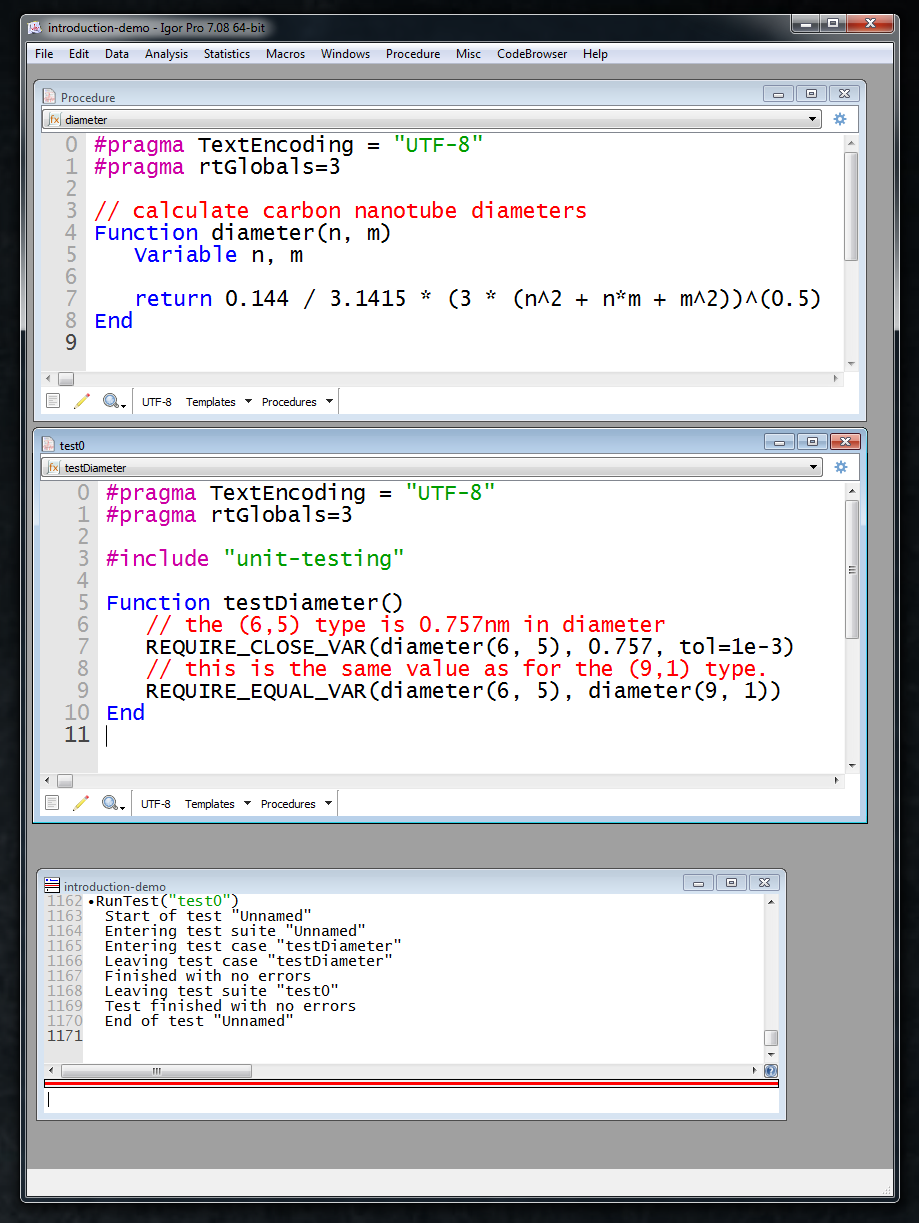
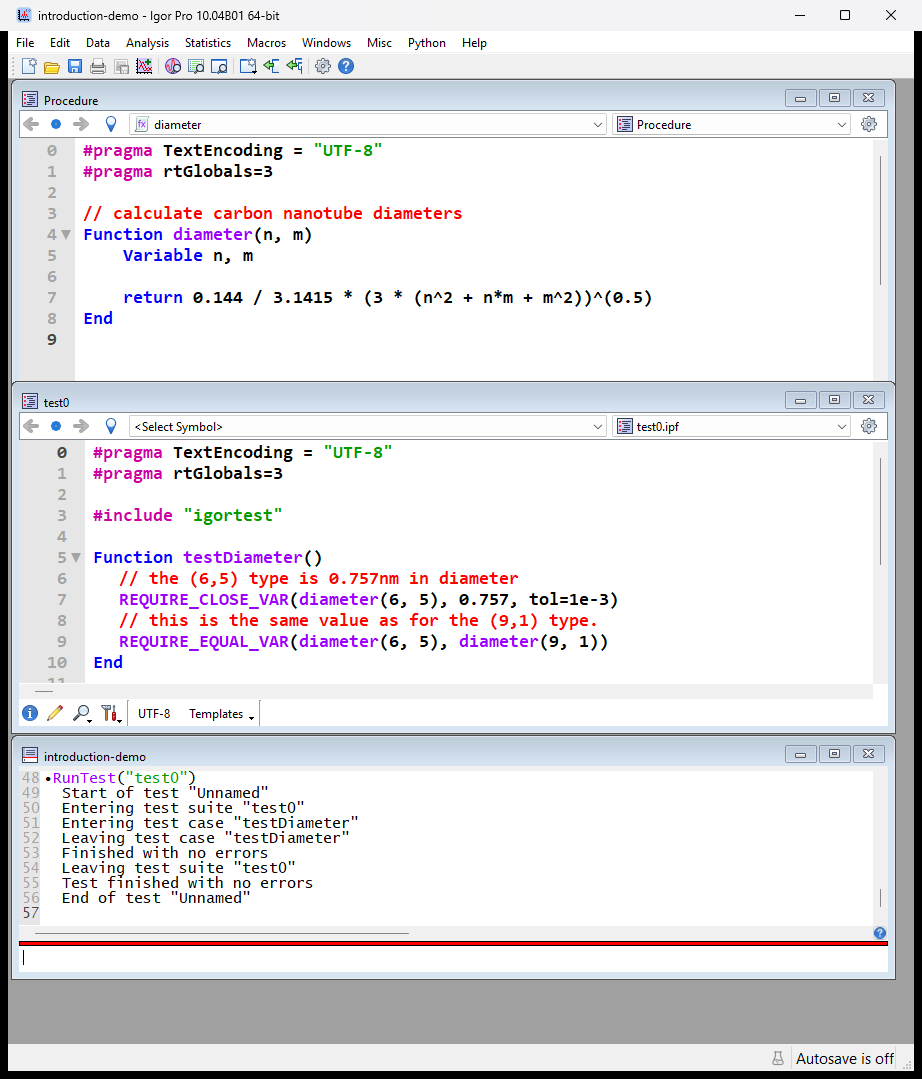
Regenerate the guided tour console output from a real run
Both console listings were written by hand in fb8ef0ca (rework
documentation, 2018-09-04) and never regenerated, so they had drifted
from what RunTest prints:

- the suite line said "Unnamed" although the test suite is the
  procedure window, which the tour has just named test0,
- the second listing repeated the "Entering test case" line,
- the assertion text lacked the trailing period,
- the location used a "failed in line 11, procedure \"test0\"" form the
  code does not produce; the current one names the test case function
  and puts the window and line in parentheses,
- the two compared numbers were shown rounded, while
  GetNiceStringForNumber() prints them with UTF_DECIMAL_DIGITS_FP64
  significant digits,
- the end-of-run recap of the failed assertion was missing.

The screenshot below the first listing still showed an Igor Pro 7.08
session with #include "unit-testing" and the old suite line, so it is
replaced by one of the same run in Igor Pro 10.

diff --git a/docu/sphinx/source/guided-tour.rst b/docu/sphinx/source/guided-tour.rst
@@ -110,7 +110,7 @@ example we have named the procedure window :code:`"test0"`.
 
    •RunTest("test0")
      Start of test "Unnamed"
-     Entering test suite "Unnamed"
+     Entering test suite "test0"
      Entering test case "testDiameter"
      Leaving test case "testDiameter"
      Finished with no errors
@@ -154,19 +154,19 @@ The output of :cpp:func:`RunTest` will now include a warning assertion without
 failing the test case:
 
 .. code-block:: console
-   :emphasize-lines: 6,7,9
+   :emphasize-lines: 5,6,8
 
    •RunTest("test0")
      Start of test "Unnamed"
-     Entering test suite "Unnamed"
+     Entering test suite "test0"
      Entering test case "testDiameter"
-     Entering test case "testDiameter"
-     0.757368 ~ 0.757345 with strong check and tol 1e-07: is false
-     Assertion "WARN_CLOSE_VAR(diameter(6, 5), 0.7573453, tol=1e-7)" failed in line 11, procedure "test0"
+     0.7573676512581874 ~ 0.7573453 with strong check and tol 1e-07: is false.
+     Assertion "WARN_CLOSE_VAR(diameter(6, 5), 0.7573453, tol=1e-7)" failed in testDiameter (test0, line 11)
      Leaving test case "testDiameter"
      Finished with no errors
      Leaving test suite "test0"
      Test finished with no errors
+       ▶ Assertion "WARN_CLOSE_VAR(diameter(6, 5), 0.7573453, tol=1e-7)" failed in testDiameter (test0, line 11)
      End of test "Unnamed"
 
 If the program should be extended to a higher level of accuracy, this warning
